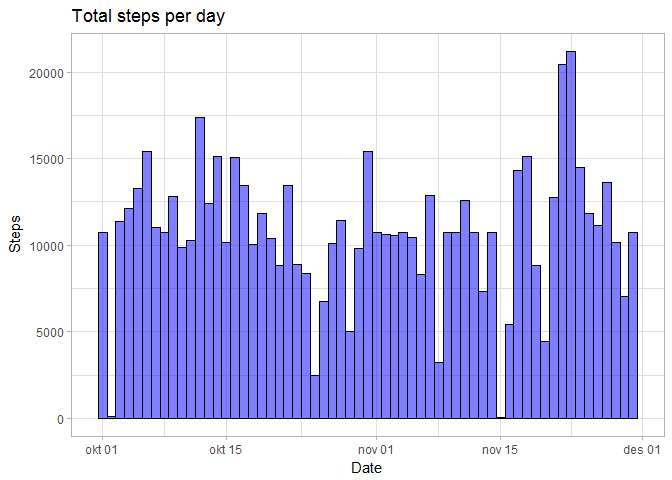
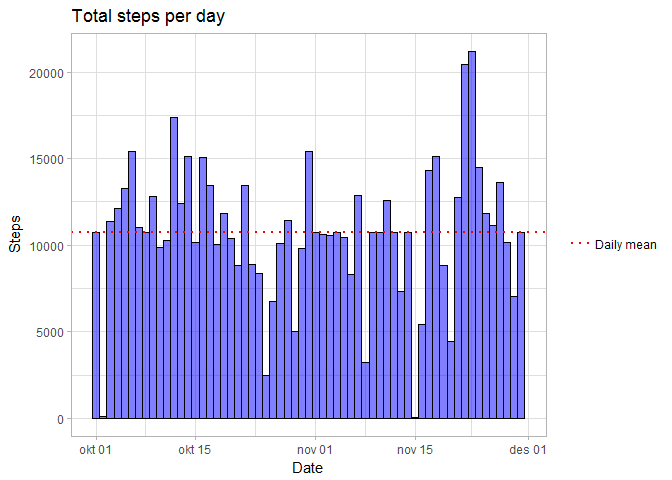
fri afternoon

diff --git a/PA1_template.html b/PA1_template.html
@@ -186,28 +186,34 @@ cAct &lt;- act
 # Determining NAs and replacing with means for the given interval
 for (i in 1:nrow(cAct)) {
      if (is.na(cAct$steps[i])) {
+          # Rounding the steps with 0 decimals
           cAct$steps[i] &lt;- 
-               intervalMean$Steps[intervalMean$Interval == 
-                                       cAct$interval[i]]
+               round(intervalMean$Steps[intervalMean$Interval == 
+                                       cAct$interval[i]], 0)
      }
 }</code></pre>
-<ol start="4" style="list-style-type: decimal">
-<li>Make a histogram of the total number of steps taken each day and Calculate and report the mean and median total number of steps taken per day. Do these values differ from the estimates from the first part of the assignment? What is the impact of imputing missing data on the estimates of the total daily number of steps?</li>
-</ol>
+<p>4a. Making a histogram of the total number of steps each day</p>
 <pre class="r"><code># Calculating total steps with complete dataset
 cDailyAct &lt;- aggregate(cAct$steps, by = list(cAct$date), FUN = sum)
 names(cDailyAct) &lt;- c(&quot;Date&quot;, &quot;Steps&quot;)
 
-# Plotting total steps with complete dataset
+# Calculating and reporting the mean and median steps per day
+cDailyMean &lt;- mean(cDailyAct$Steps)
+cDailyMedian &lt;- median(cDailyAct$Steps)
+
+# Plotting total steps with complete dataset, incl daily mean &amp; median
 ggplot(data = cDailyAct, aes(x=Date, y=Steps)) +
      geom_col(col=&quot;black&quot;, fill = &quot;blue&quot;, 
               width = 1, alpha=.5) +
+     geom_hline(aes(yintercept = cDailyMean, linetype = &quot;Daily mean&quot;), 
+                    col=&quot;red&quot;, size = 1) +
      theme_light() +
+     scale_linetype_manual(name = &quot;&quot;, values = c(3,1), guide =
+                                guide_legend(override.aes =
+                                                  list(color=&quot;red&quot;))) +
      labs(title = &quot;Total steps per day&quot;)</code></pre>
[1 lines of base64/hex data omitted]
-<pre class="r"><code># Calculating and reporting the mean and median steps per day
-cDailyMean &lt;- mean(cDailyAct$Steps, na.rm = TRUE)
-cDilyMedian &lt;- median(cDailyAct$Steps, na.rm = TRUE)</code></pre>
[1 lines of base64/hex data omitted]
+<p>4b. The impact of imputing the NAs in the dataset is that the mean has changed to 1.076563910^{4} (from 1.076618910^{4}) and the median has changed to 1.076210^{4} (from 10765).</p>
 </div>
 <div id="are-there-differences-in-activity-patterns-between-weekdays-and-weekends" class="section level2">
 <h2>Are there differences in activity patterns between weekdays and weekends?</h2>

diff --git a/PA1_template.md b/PA1_template.md
@@ -85,14 +85,15 @@ cAct <- act
 # Determining NAs and replacing with means for the given interval
 for (i in 1:nrow(cAct)) {
      if (is.na(cAct$steps[i])) {
+          # Rounding the steps with 0 decimals
           cAct$steps[i] <- 
-               intervalMean$Steps[intervalMean$Interval == 
-                                       cAct$interval[i]]
+               round(intervalMean$Steps[intervalMean$Interval == 
+                                       cAct$interval[i]], 0)
      }
 }
 ```
 
-4. Make a histogram of the total number of steps taken each day and Calculate and report the mean and median total number of steps taken per day. Do these values differ from the estimates from the first part of the assignment? What is the impact of imputing missing data on the estimates of the total daily number of steps?
+4a. Making a histogram of the total number of steps each day
 
 
 ```r
@@ -100,21 +101,25 @@ for (i in 1:nrow(cAct)) {
 cDailyAct <- aggregate(cAct$steps, by = list(cAct$date), FUN = sum)
 names(cDailyAct) <- c("Date", "Steps")
 
-# Plotting total steps with complete dataset
+# Calculating and reporting the mean and median steps per day
+cDailyMean <- mean(cDailyAct$Steps)
+cDailyMedian <- median(cDailyAct$Steps)
+
+# Plotting total steps with complete dataset, incl daily mean & median
 ggplot(data = cDailyAct, aes(x=Date, y=Steps)) +
      geom_col(col="black", fill = "blue", 
               width = 1, alpha=.5) +
+     geom_hline(aes(yintercept = cDailyMean, linetype = "Daily mean"), 
+                    col="red", size = 1) +
      theme_light() +
+     scale_linetype_manual(name = "", values = c(3,1), guide =
+                                guide_legend(override.aes =
+                                                  list(color="red"))) +
      labs(title = "Total steps per day")
 ```
 
 ![](PA1_template_files/figure-html/histTotals-1.png)<!-- -->
 
-```r
-# Calculating and reporting the mean and median steps per day
-cDailyMean <- mean(cDailyAct$Steps, na.rm = TRUE)
-cDilyMedian <- median(cDailyAct$Steps, na.rm = TRUE)
-```
-
+4b. The impact of imputing the NAs in the dataset is that the mean has changed to 1.0765639\times 10^{4} (from 1.0766189\times 10^{4}) and the median has changed to 1.0762\times 10^{4} (from 10765).
 
 ## Are there differences in activity patterns between weekdays and weekends?
